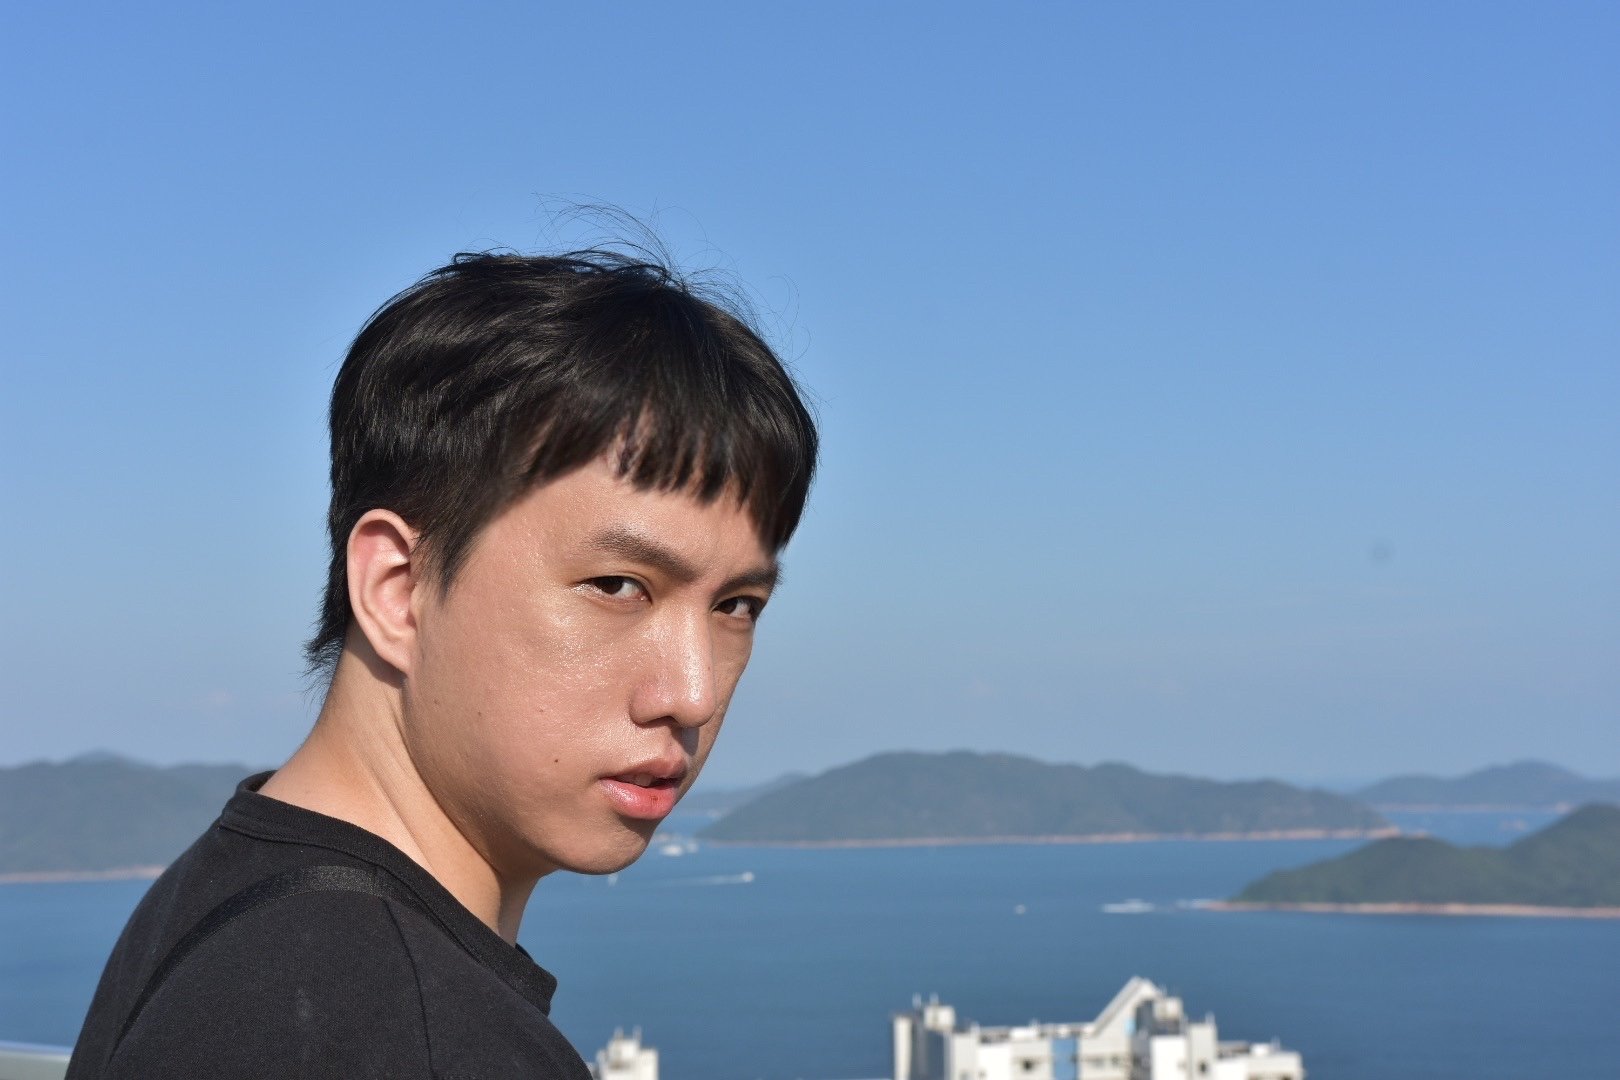
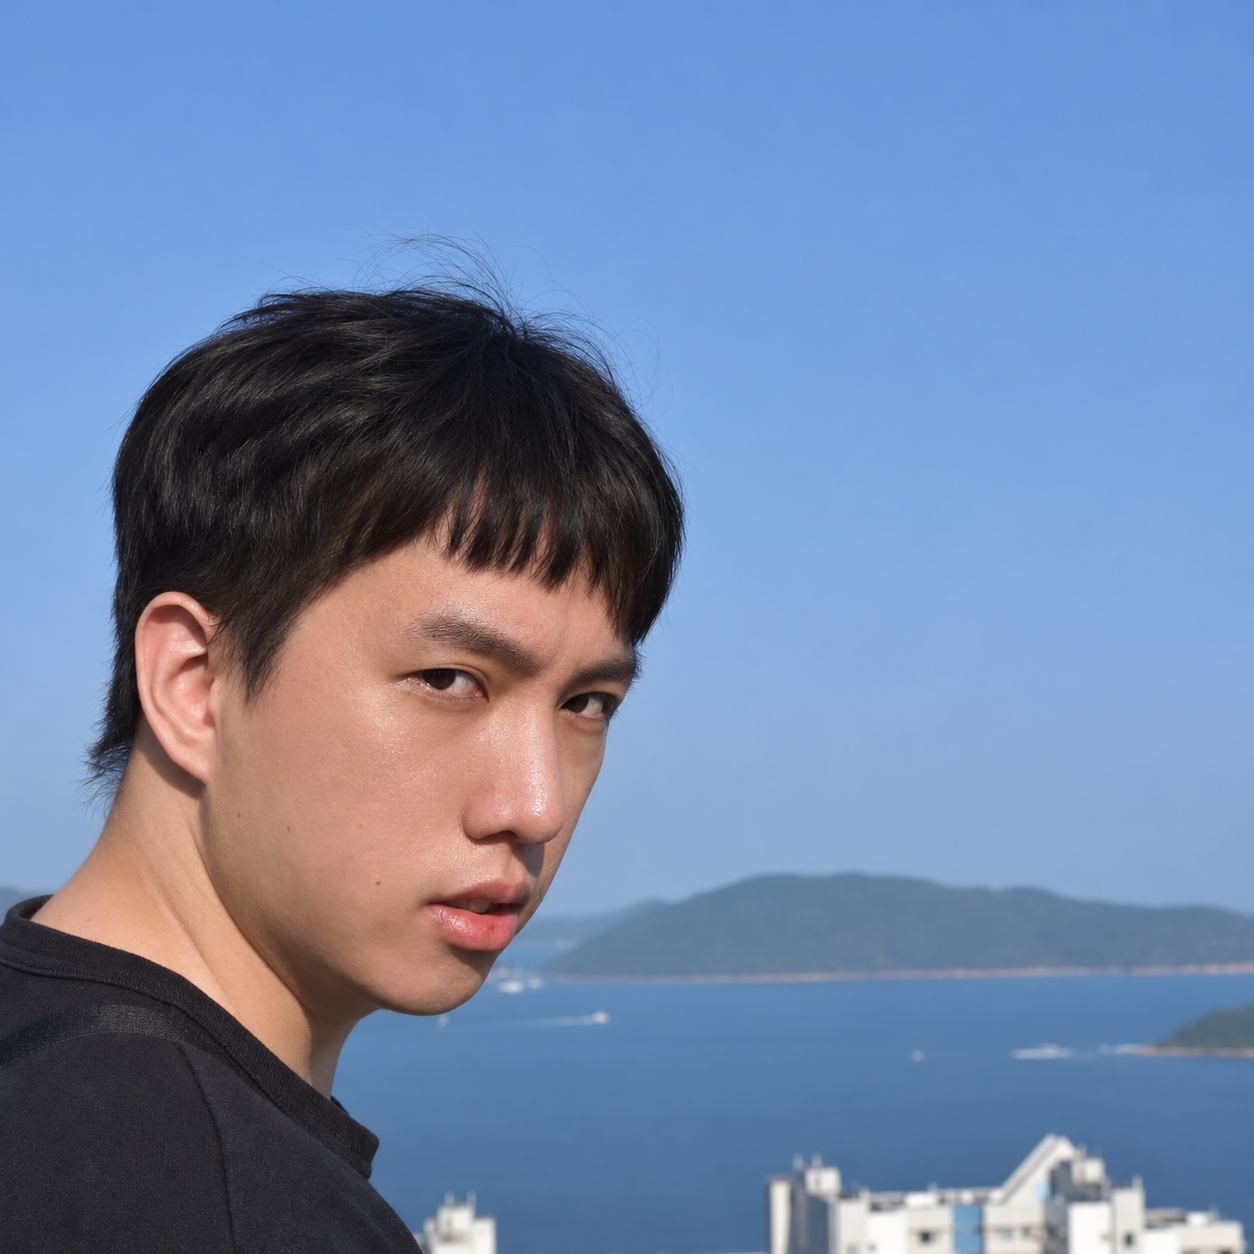
New square profile photo with soft edges; drop LinkedIn from mobile links

diff --git a/index.html b/index.html
@@ -67,6 +67,18 @@
   }
   /* keep the avatar from getting huge on very wide screens */
   .sidebar .author__avatar img { max-width: 220px; }
+  /* square photo with softly feathered edges (overrides the round crop in main.css) */
+  .author__avatar img {
+    border-radius: 6px;
+    padding: 0;
+    border: none;
+    -webkit-mask-image: linear-gradient(to right, transparent, #000 3%, #000 97%, transparent),
+                        linear-gradient(to bottom, transparent, #000 3%, #000 97%, transparent);
+    -webkit-mask-composite: source-in;
+            mask-image: linear-gradient(to right, transparent, #000 3%, #000 97%, transparent),
+                        linear-gradient(to bottom, transparent, #000 3%, #000 97%, transparent);
+            mask-composite: intersect;
+  }
   /* let the address / email lines use the extra room instead of wrapping */
   .sidebar .author__urls li { white-space: normal; }
 
@@ -134,7 +146,6 @@
         </ul>
         <div class="author__urls_sm">
           <a href="mailto:kwang69-c@my.cityu.edu.hk" aria-label="Email"><i class="fas fa-fw fa-envelope" aria-hidden="true"></i></a>
-          <a href="https://www.linkedin.com/in/kun-wang-74457017b/" target="_blank" rel="noopener noreferrer" aria-label="LinkedIn"><i class="fab fa-fw fa-linkedin" aria-hidden="true"></i></a>
           <a href="https://scholar.google.com/citations?user=-cCYLZ8AAAAJ" target="_blank" rel="noopener noreferrer" aria-label="Google Scholar"><i class="fas fa-fw fa-graduation-cap" aria-hidden="true"></i></a>
         </div>
       </div>
